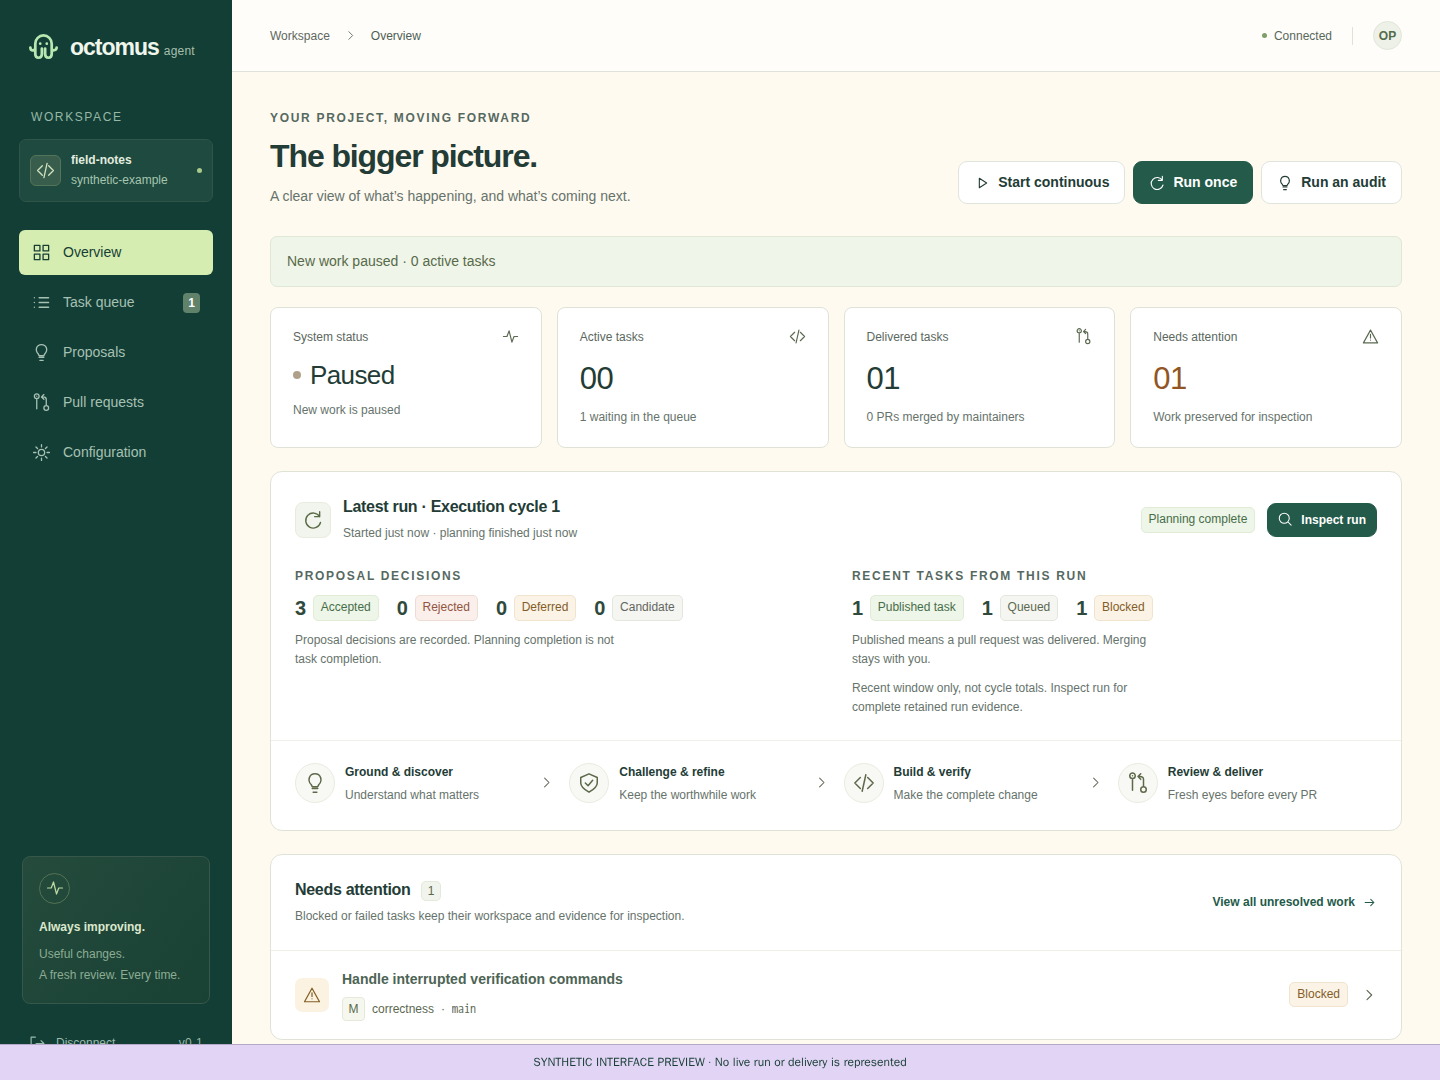
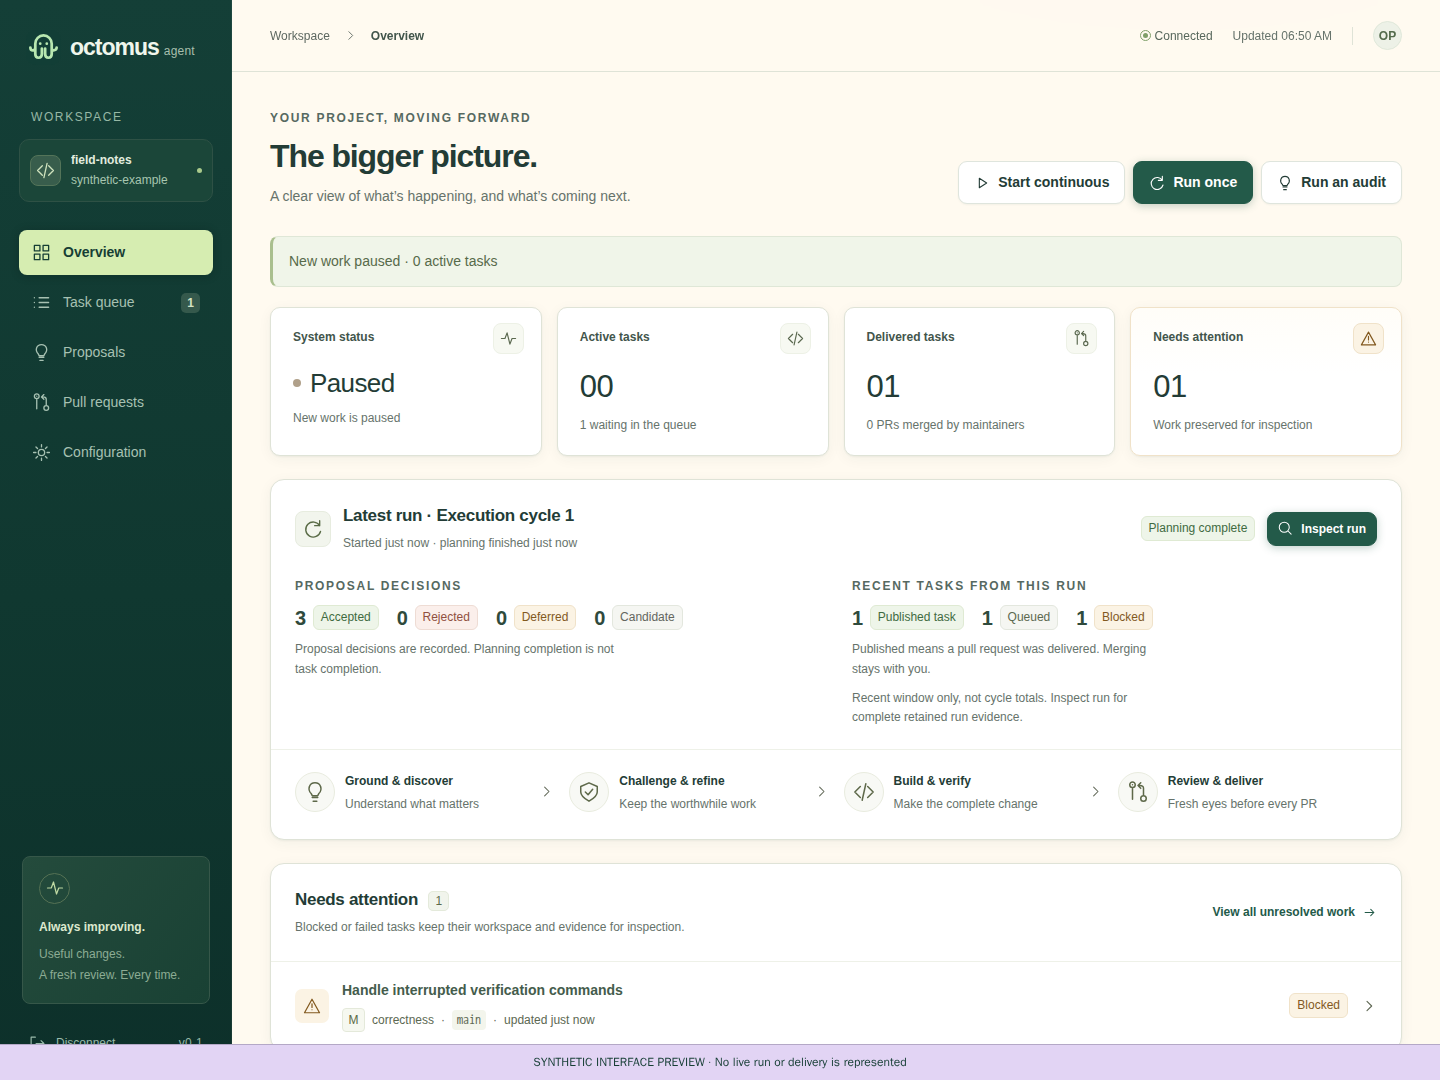
Refresh launch docs, artwork, and site accessibility

diff --git a/CONTRIBUTING.md b/CONTRIBUTING.md
@@ -39,7 +39,9 @@ Browser tests use clearly synthetic data; their screenshots are not
 live operating evidence. `tests/evidence_snapshot.py` runs the documented SQLite backup
 and `--export-run` examples on a synthetic database, and the showcase tests
 (`npm run showcase:test --prefix web`) cover the public showcase's input contract and
-rendering. `tests/systemd.py` requires root on a disposable systemd
+rendering. Public-site tests (`npm run site:test --prefix web`) cover homepage and docs
+navigation, local search, code copying, accessibility, links, and nested 404 pages at the
+domain root and legacy Pages subdirectory. `tests/systemd.py` requires root on a disposable systemd
 VM and exercises the unit's write restrictions and child cleanup.
 
 Four checks run in CI rather than in `make test`, because each needs something a
@@ -53,8 +55,16 @@ Dashboard regressions cover configuration drafts in tab memory, saved-configurat
 checks, keyboard navigation and list recovery. Keep drafts across view changes,
 clear them at session boundaries, and use entered executable paths for catalogs.
 The dashboard browser tests include axe WCAG A/AA and overflow checks. To refresh
-`docs/dashboard.png`, take a full-page screenshot of the synthetic overview served by
-`python3 tests/serve_ui.py` at a 1440×1100 viewport, and keep the synthetic-data caption.
+`docs/dashboard.png` and the Product Hunt gallery, build the current dashboard and binary,
+then run `npm run launch:assets --prefix web`. The capture script starts temporary
+fixture servers, blocks dashboard writes, and labels the screenshots as synthetic.
+Inspect the generated images before committing them; see the
+[launch guide](docs/product-hunt.md#build-verify-and-publish) for the complete commands.
+
+The public docs are generated from the allowlisted `docs/*.md` sources in
+`web/scripts/site-docs.mjs`. Run `npm run site:build --prefix web` after editing a guide.
+The live homepage, documentation, and sample use `https://octomus-agent.tyk.sh/`;
+publishing them requires a separate `npm run site:deploy --prefix web` after checks pass.
 
 Run relevant behavior tests while editing and full `make check`/`make test` before
 delivery. Install `cargo-audit` with `cargo install cargo-audit --locked`, then run

diff --git a/CHANGELOG.md b/CHANGELOG.md
@@ -5,7 +5,9 @@ Versions follow [Semantic Versioning](https://semver.org/spec/v2.0.0.html).
 
 ## [Unreleased]
 
-Nothing has been published yet; this section describes what the first release contains.
+Binary releases and crates.io publication remain pending; this section describes what
+the first release contains. The public homepage and documentation are live at
+[octomus-agent.tyk.sh](https://octomus-agent.tyk.sh/).
 
 ### Added
 
@@ -20,8 +22,10 @@ Nothing has been published yet; this section describes what the first release co
   `--export-run`, with a documented consistent SQLite snapshot procedure.
 - A standalone static showcase build (`web/showcase`) of recorded evidence, with
   allowlist and duplicate-key gates, hash-bound approval and network isolation.
-- A public preview site with a guided synthetic sample, reproducible Product Hunt
-  gallery assets, launch copy, and a manually triggered GitHub Pages workflow.
+- A Cloudflare Workers homepage and searchable documentation generated from the public
+  Markdown guides, with mobile navigation, heading links, and code copying.
+- A guided synthetic sample, reproducible Product Hunt gallery assets, launch copy,
+  and an optional manually triggered GitHub Pages mirror.
 - Durable admission accounting, owned pull-request capacity limits, decision memory,
   attention notifications and read-only usage reports.
 - Linux x86_64 and aarch64 release packaging, a checksum-verifying installer and Cargo
@@ -32,7 +36,9 @@ Nothing has been published yet; this section describes what the first release co
 ### Changed
 
 - Refreshed dashboard and login styling, clearer setup-state explanations, and audit-first
-  guidance for installations without a recorded cycle.
+  guidance for installations without a recorded cycle. Public dashboard screenshots and
+  gallery assets reflect the current interface using synthetic data.
+- Documentation tools and navigation sidebars have distinct labels for screen readers.
 - Verification runs on the reviewed revision, and a command that changes tracked state
   is recorded as failed evidence rather than passing silently.
 - Repair rounds are budgeted per attempt: an explicit retry starts a fresh budget and

diff --git a/docs/product-hunt.md b/docs/product-hunt.md
@@ -1,7 +1,7 @@
 # Octomus Product Hunt launch
 
 This package presents a **self-hosted preview for solo developers**. The public homepage,
-documentation, and guided walkthrough target Cloudflare Workers at
+documentation, and guided walkthrough are live on Cloudflare Workers at
 **https://octomus-agent.tyk.sh/**. Product Hunt submission is a separate owner action;
 deploying the website does not submit a listing or book a launch slot.
 
@@ -164,9 +164,10 @@ The token needs Workers Scripts edit, Workers Routes edit, and Zone read permiss
 the account and `tyk.sh` zone. Keep it out of source files, build output, and commit history.
 The checked-in Cloudflare account ID is an identifier, not a credential.
 
-The existing **Publish launch site** workflow remains an optional manual GitHub Pages
+The **Publish GitHub Pages mirror** workflow remains an optional manual GitHub Pages
 mirror. It runs full CI and uploads only `dist/site`. Canonical URLs and social metadata
-point to the Cloudflare domain. There is no automatic push-triggered deployment.
+point to the Cloudflare domain. After updating `main`, rebuild and redeploy the Workers
+site to publish the changes; pushing a commit alone does not update the live site.
 
 ### Launch-day checklist
 
@@ -175,7 +176,7 @@ point to the Cloudflare domain. There is no automatic push-triggered deployment.
 - [ ] Review the final copy, synthetic payload, gallery, social card, and both mobile and
       desktop previews. Remove any claim that does not have evidence behind it.
 - [ ] Commit the reviewed source and generated assets; require successful repository checks.
-- [ ] Run `npm run site:deploy --prefix web` with the Cloudflare token in the environment.
+- [x] Run `npm run site:deploy --prefix web` with the Cloudflare token in the environment.
       Confirm the custom domain and TLS certificate are active.
 - [ ] Open the live URL, follow every sample and setup link, download the public payload,
       and inspect the social-card URL. Confirm there is no login or operator API on the site.

diff --git a/AGENTS.md b/AGENTS.md
@@ -24,8 +24,10 @@ GitHub PRs. The SvelteKit dashboard builds to static assets served by Rust.
 - `src/git.rs`, `src/process.rs`: Git/GitHub publication and owned process groups.
 - `web/src`: dashboard, shared TypeScript types, settings, setup checklist and
   run/task evidence. `web/showcase`: standalone public showcase build of an approved
-  evidence wrapper (`docs/showcase.md`). `web/launch`: public launch site source
-  embedding a guided synthetic sample (`docs/product-hunt.md`).
+  evidence wrapper (`docs/showcase.md`). `web/launch`: public homepage and docs styles,
+  with a guided synthetic sample (`docs/product-hunt.md`). `web/scripts/site-docs.mjs`
+  renders the public Markdown guides; `web/wrangler.jsonc` deploys `dist/site` to
+  `octomus-agent.tyk.sh` through Cloudflare Workers.
 - Rust behavior tests: `tests/core.rs`, `usage.rs`, `runners.rs`, `hardening.rs`,
   `review_findings.rs`, `review_regressions.rs`, `evidence.rs`, `process_lifecycle.rs`,
   `history_scale.rs`, and `contracts.rs` (ignored unless a pinned real client binary
